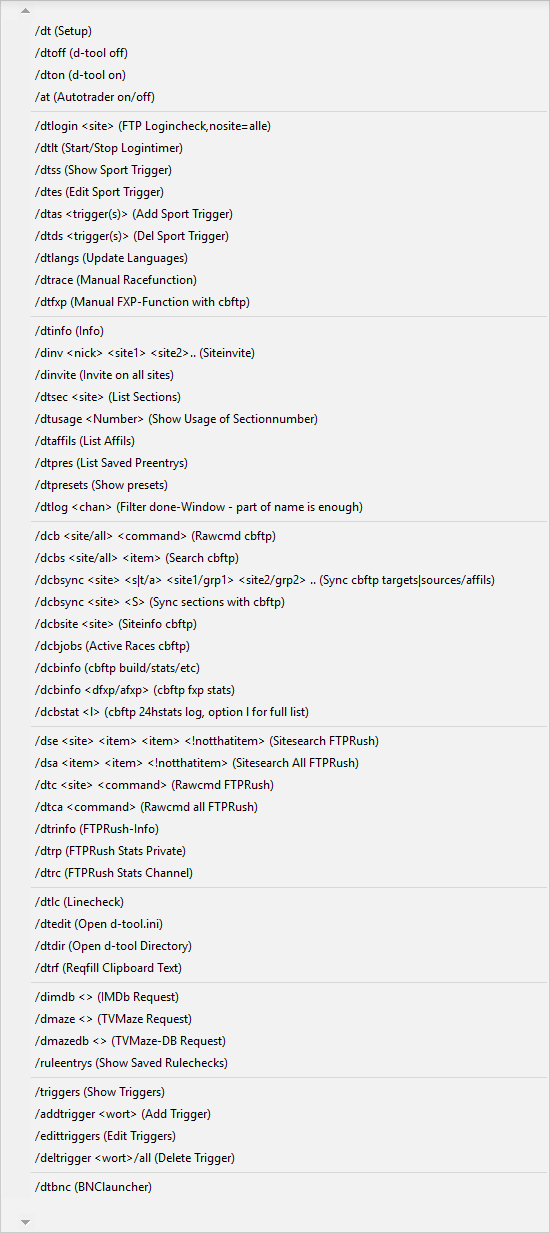
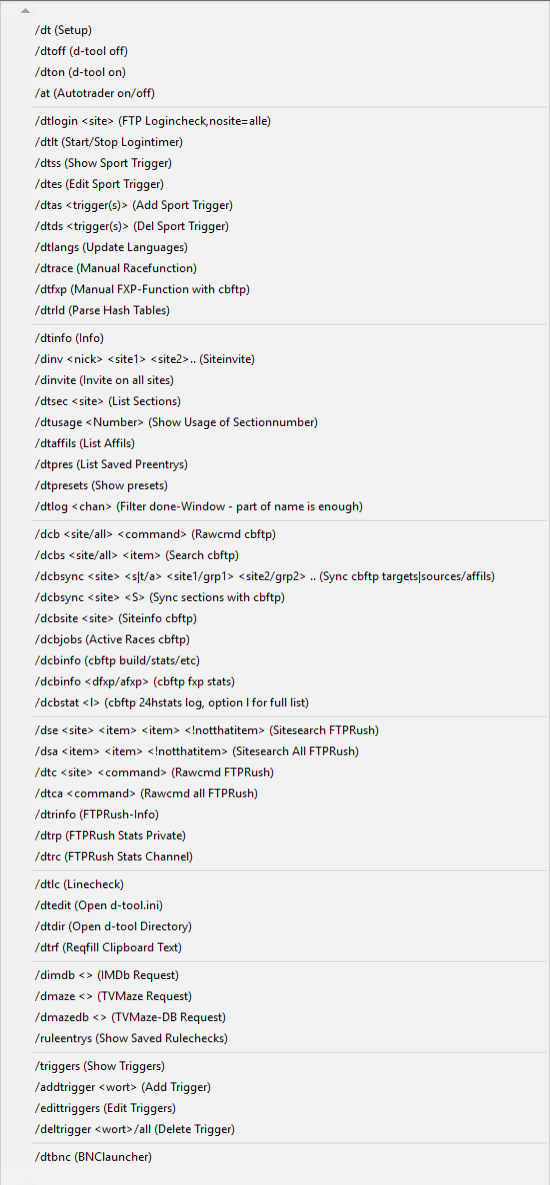
v9.9.2

Changed region(s): [[0.0, 0.1249, 1.0, 1.0], [0.0618, 0.0, 0.1545, 0.0312], [0.1545, 0.0312, 0.1855, 0.0624]]

diff --git a/Hotlinks.html b/Hotlinks.html
@@ -146,9 +146,8 @@ body,td,th {
         klicken, damit sich der Browser öffnet. Textfunktionen die man auf gepostete 
         Inhalte von Chatfenstern ausführen kann</span><span class="normalschrift"><br />
         <br />
-        <span class="Text-klein"><strong>LM = </strong></span></span><span class="textklein">linke Maustaste</span><span class="normalschrift"><span class="Text-klein"> | <strong>RM = </strong></span></span><span class="textklein">rechte Maustaste</span><span class="normalschrift"><br />
-        </span></p>
-      <p><span class="normalschrift"><span class="Grüntext"><strong> Channels + @Windows</strong> (beim linken Mausklick auf  Releasename)</span><br />
+        <span class="Text-klein"><strong>LM = </strong></span></span><span class="textklein">linke Maustaste</span><span class="normalschrift"><span class="Text-klein"> | <strong>RM = </strong></span></span><span class="textklein">rechte Maustaste</span></p>
+      <p><span class="normalschrift"><span class="Grüntext"><strong>Channels + @Windows</strong> (beim linken Mausklick auf  Releasename)</span><br />
         <br />
         <strong>LM + STRG</strong><br />
         <span class="Normaltext">Es wird gefragt ob das Release auf allen Sites gesucht werden soll</span> <br />
@@ -156,27 +155,22 @@ body,td,th {
         <strong>LM + SHIFT</strong><br />
         <span class="Normaltext">Es wird gefragt ob das Release als Request gesucht
           werden soll, vor allem interessant bei Request auflistungen um nochmal 
-          per Hand zu checken<br />
-        </span></span></p>
-      <p><span class="normalschrift"><span class="Grüntext"><strong> @Windows</strong> (beim rechten Mausklick auf Releasename)</span><br />
-        <br />
-        <strong>RM </strong><br />
-        <span class="Normaltext">Es wird /dtrace ausgelöst</span></span><span class="normalschrift"><span class="Normaltext"> und Releasename ist vorausgefüllt<br />
-        </span></span><span class="normalschrift"><br />
-          <br />
-          </span><span class="Grüntext" style="color: #BFFF40; font-weight: bold;">d-tool Fenster<br />
-            </span><span class="normalschrift"><span style="color: #BFFF40; font-weight: bold;"><br />
-              </span></span><span class="Grüntext">Mausklick auf ein Suchergebnis</span><span class="normalschrift"><br />
+          per Hand zu checken</span></span></p>
+      <p><span class="Grüntext" style="color: #BFFF40; font-weight: bold;">@d-tool Fenster<br />
+        </span><span class="normalschrift"><span style="color: #BFFF40; font-weight: bold;"><br />
+          </span></span><span class="Grüntext">Mausklick auf ein Suchergebnis</span><span class="normalschrift"><br />
+            <strong>STRG + LM</strong><br />
+            </span><span class="Normaltext">Es wird gefragt ob das Suchergebnis in den 
+              Downloadordner geladen werden soll. Wenn für FTPRush noch kein Downloadordner 
+              angegeben wurde wird auch danach gefragt, bei cbftp wird der Standard Download-Ordner von cbftp genommen</span><span class="normalschrift"><br />
+                <strong>SHIFT + LM</strong><br />
+                </span><span class="Normaltext">Es wird gefragt ob dahin connected werden soll. Der Pfad wird auch in die Zwischenablage kopiert (nur FTPRush)</span><span class="normalschrift"><br />
                 <br />
-                <strong>STRG + LM</strong><br />
-                </span><span class="Normaltext">Es wird gefragt ob das Suchergebnis in den 
-                  Downloadordner geladen werden soll. Wenn für FTPRush noch kein Downloadordner 
-                  angegeben wurde wird auch danach gefragt, bei cbftp wird der Standard Download-Ordner von cbftp genommen</span><span class="normalschrift"><br />
-                    <strong>SHIFT + LM</strong><br />
-                    </span><span class="Normaltext">Es wird gefragt ob dahin connected werden soll. Der Pfad wird auch in die Zwischenablage kopiert (nur FTPRush)</span><span class="normalschrift"><br />
-                    <br />
+                </span><span class="normalschrift"><span class="Grüntext">Mausklick auf  Releasename</span><br />
+                <strong>RM </strong><br />
+                <span class="Normaltext">Es wird /dtrace ausgelöst</span><span class="Normaltext"> und Releasename ist vorausgefüllt<br />
+                </span></span><span class="normalschrift"><br />
                     </span><span class="Grüntext">Mausklick auf einen Sitenamen bei Ausgabe von /dtinfo</span><span class="normalschrift"><br />
-                    <br />
                     <strong>LM</strong><br />
                     </span><span class="Normaltext">Es werden die Target- und Sourcesites von cbftp angezeigt, die man per /dcbsite erhält</span><span class="normalschrift"><br />
                     <strong>RM + STRG</strong><br /> 
@@ -188,14 +182,16 @@ body,td,th {
                               Logincheck für diese Site ausführen</span><br />
                               <br />
                               <span class="Grüntext">Mausklick auf den Status &quot;on/off&quot; beim Logincheck bei Ausgabe von /dtinfo</span><br />
-                              <br />
                               <span class="Normaltext"><strong>LM</strong><br />
                               Logintimer starten/stoppen</span>          <br />
                               <br />
                               </span><span class="Grüntext">Mausklick auf einen Pfad bei Ausgabe von sitesetup&gt;sections&gt;section management&gt;show sections </span><br />
-        <br />
-        <span class="normalschrift"><strong>LM</strong><br />
-      </span>Der Sektionspfad wird in die Zwischenablage kopiert, damit man ihn in cbftp pasten kann wenn man die Sektionen einstellt</p></td>
+                    <span class="normalschrift"><strong>LM</strong><br />
+                  </span>Der Sektionspfad wird in die Zwischenablage kopiert, damit man ihn in cbftp pasten kann wenn man die Sektionen einstellt</p>
+      <p><span class="normalschrift"><span class="Grüntext"><strong>@d-tool_at</strong> (beim rechten Mausklick auf Releasename)</span><br />
+          <strong>RM </strong><br />
+          <span class="Normaltext">Es wird /dtrace ausgelöst</span></span><span class="normalschrift"><span class="Normaltext"> und Releasename ist vorausgefüllt<br />
+      </span></span></p></td>
     <td class="normalschrift" width="1" valign="bottom" align="right">&nbsp;</td>
   </tr>
 </tbody></table>

diff --git a/Commands.html b/Commands.html
@@ -134,7 +134,8 @@ body {
         <strong>/dtrace - </strong>Manuelle Racefunktion (zum testen)<br>
         Vorher Release in die Zwischenablage kopieren und Sektion merken. Wahlweise <br />
         mit Precheck oder als  Simulation (bei Simulation wird nichts zum FTP Clienten gesendet).<br>
-        <strong>/dtfxp - </strong>Manuelle FXP-Funktion per cbftp<br>
+        <strong>/dtfxp - </strong>Manuelle FXP-Funktion per cbftp<br />
+        <strong>/dtrld - </strong>Manuell die Hash-Tabellen parsen      <br>
         _____________________________________________________________<br>
         <br>
         <strong>/dtinfo </strong> - Informationen über die Siteeinstellungen<br />
@@ -204,7 +205,7 @@ body {
     <td width="486" valign="top" align="left"><p><br />
         <br />
     </p>
-      <p><img src="Commands-Dateien/menu-commands.png" width="550" height="1233"></p>
+      <p><img src="Commands-Dateien/menu-commands.png" width="550" height="1185"></p>
     <p>Kontextmenü &gt; d-tool &gt; Commands</p></td>
   </tr>
   <tr>

diff --git a/index.html b/index.html
@@ -144,7 +144,7 @@ body {
       <span class="KleinerText"><a href="https://d--tool-github-io.translate.goog/index.html?_x_tr_sl=de&amp;_x_tr_tl=en&amp;_x_tr_hl=de&amp;_x_tr_pto=wapp" class="helpdesk1"><span class="link-nodecoration-grey-10px"><br />
         <br />
         translate me</span></a></span></p></td>
-    <td width="228" valign="top"><p class="mini_text"><a href="Latest.html" class="link-normal">dt.v.9.8</a><br />
+    <td width="228" valign="top"><p class="mini_text"><a href="Latest.html" class="link-normal">dt.v.9.9.2</a><br />
         <br />
         <br />
       </p></td>
